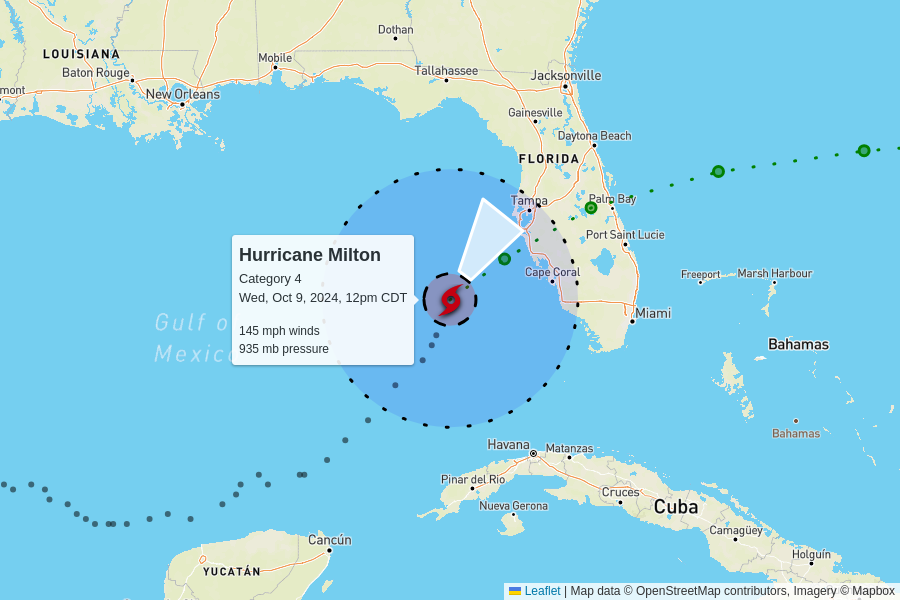
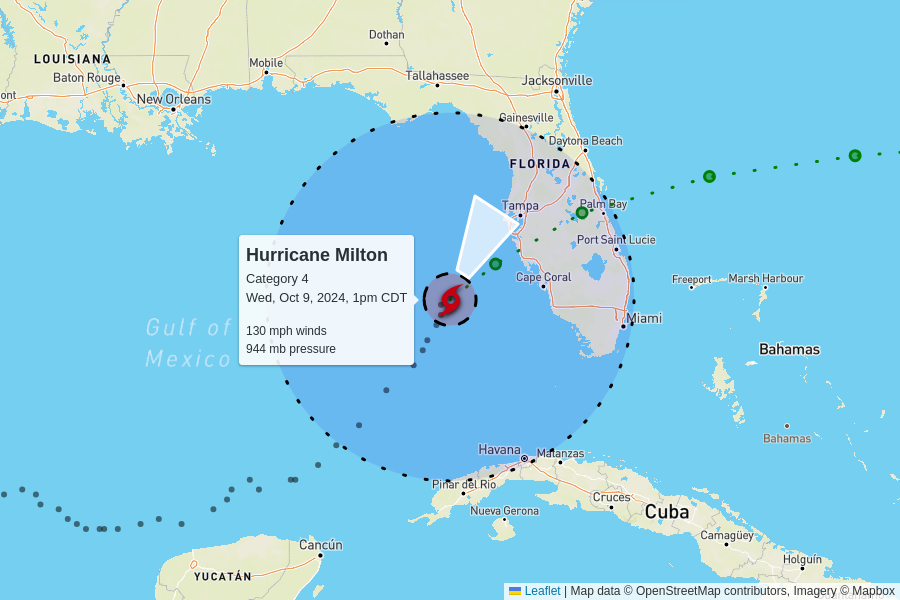
automatic update

diff --git a/docs/index.html b/docs/index.html
@@ -104,7 +104,7 @@
         <td colspan="6" class="storm category-4" >
           <h2>
             Hurricane Milton - Category 4
-            <p class="updated">last updated <span data-time>2024-10-09T17:00:00.000Z</span></p>
+            <p class="updated">last updated <span data-time>2024-10-09T18:00:00.000Z</span></p>
           </h2>
         </td>
       </tr>
@@ -119,12 +119,12 @@
       </tr>
       <tr>
         <td class="spacer"></td>
-        <td>145 mph<br>0 mph since last update</td>
-        <td>935 mb<br>+4 mb since last update</td>
+        <td>130 mph<br>-15 mph since last update</td>
+        <td>944 mb<br>+9 mb since last update</td>
         <td>
-          17 mph to the northeast
+          16 mph to the north-northeast
           <br/>
-          <span style="display: inline-block; font-size: 1.5em; transform: rotate(35deg);">↑</span>
+          <span style="display: inline-block; font-size: 1.5em; transform: rotate(30deg);">↑</span>
         </td>
         <td><a href="https://raw.githubusercontent.com/mgwalker/atlantic-hurricanes/main/data/csv/AL142024.csv">AL142024.csv</a></td>
         <td><a href="https://www.nhc.noaa.gov/archive/2024/MILTON.shtml?">NHC advisories</a></td>
